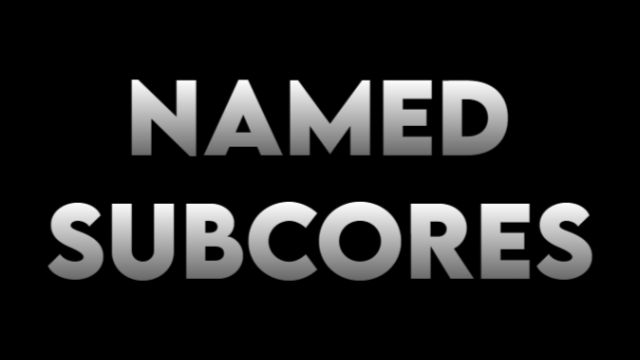
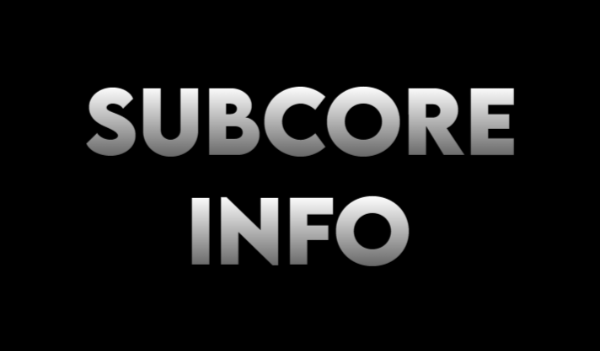
Rename to SubcoreInfo

Changed region(s): [[0.06, 0.5413, 0.93, 0.7977], [0.12, 0.1994, 0.87, 0.4558]]

diff --git a/Source/SubcoreInfo/Harmony/Harmony_Building_SubcoreScanner.cs b/Source/SubcoreInfo/Harmony/Harmony_Building_SubcoreScanner.cs
@@ -2,7 +2,7 @@
 using RimWorld;
 using Verse;
 
-namespace NamedSubcores
+namespace SubcoreInfo
 {
     /// <summary>
     /// Harmony_Building_SubcoreScanner_EjectContents patches subcore scanners to use our component during ejects.
@@ -16,7 +16,7 @@ namespace NamedSubcores
         /// <param name="__instance"></param>
         internal static void Postfix(Building_SubcoreScanner __instance)
         {
-            __instance.GetComp<SubcoreScannerComp>().Ejected = true;
+            __instance.GetComp<SubcoreScannerPatternComp>().Ejected = true;
         }
     }
 
@@ -32,7 +32,7 @@ namespace NamedSubcores
         /// <param name="__instance"></param>
         internal static void Prefix(Building_SubcoreScanner __instance)
         {
-            SubcoreScannerComp scannerComp = __instance.GetComp<SubcoreScannerComp>();
+            SubcoreScannerPatternComp scannerComp = __instance.GetComp<SubcoreScannerPatternComp>();
             scannerComp.PatternName = __instance?.Occupant?.Name ?? null;
         }
 
@@ -42,10 +42,10 @@ namespace NamedSubcores
         /// <param name="__instance"></param>
         internal static void Postfix(Building_SubcoreScanner __instance)
         {
-            SubcoreScannerComp scannerComp = __instance.GetComp<SubcoreScannerComp>();
+            SubcoreScannerPatternComp scannerComp = __instance.GetComp<SubcoreScannerPatternComp>();
             if (!scannerComp.Ejected) { return; }
 
-            SubcorePatternComp subcoreComp = TryGetSubcoreComp(__instance);
+            SubcoreInfoComp subcoreComp = TryGetSubcoreComp(__instance);
             if (subcoreComp != null)
             {
                 subcoreComp.PatternName = scannerComp.PatternName;
@@ -55,11 +55,11 @@ namespace NamedSubcores
         }
 
         /// <summary>
-        /// Try to find the subcore ejected from the scanner and return the component for it.
+        /// Try to find kekethe subcore ejected from the scanner and return the component for it.
         /// </summary>
         /// <param name="scanner"></param>
         /// <returns></returns>
-        static SubcorePatternComp TryGetSubcoreComp(Building_SubcoreScanner scanner)
+        static SubcoreInfoComp TryGetSubcoreComp(Building_SubcoreScanner scanner)
         {
             ThingDef subcoreDef = scanner.def.defName switch
             {
@@ -72,14 +72,14 @@ namespace NamedSubcores
 
             static bool validator(Thing subcore)
             {
-                SubcorePatternComp comp = subcore.TryGetComp<SubcorePatternComp>();
+                SubcoreInfoComp comp = subcore.TryGetComp<SubcoreInfoComp>();
                 if (comp == null) { return false; }
                 return comp.PatternName == null;
             }
 
             Thing subcore = GenClosest.ClosestThingReachable(scanner.InteractionCell, scanner.Map, ThingRequest.ForDef(subcoreDef), Verse.AI.PathEndMode.ClosestTouch, TraverseParms.For(TraverseMode.ByPawn), 9999, validator);
 
-            return subcore?.TryGetComp<SubcorePatternComp>() ?? null;
+            return subcore?.TryGetComp<SubcoreInfoComp>() ?? null;
         }
     }
 }

diff --git a/Source/SubcoreInfo/Harmony/Harmony_Building_MechGestator.cs b/Source/SubcoreInfo/Harmony/Harmony_Building_MechGestator.cs
@@ -3,7 +3,7 @@ using RimWorld;
 using System.Linq;
 using Verse;
 
-namespace NamedSubcores
+namespace SubcoreInfo
 {
     internal class Harmony_Building_MechGestator
     {
@@ -19,14 +19,14 @@ namespace NamedSubcores
             /// <param name="__instance"></param>
             internal static void Prefix(Building_MechGestator __instance)
             {
-                static bool hasNamedSubcoreComp(Thing thing) => (thing?.TryGetComp<SubcorePatternComp>() ?? null) != null;
+                static bool hasNamedSubcoreComp(Thing thing) => (thing?.TryGetComp<SubcoreInfoComp>() ?? null) != null;
                 Thing subcore = __instance.innerContainer.FirstOrDefault(hasNamedSubcoreComp);
                 if (subcore == null) { return; }
 
-                SubcorePatternComp subcoreComp = subcore.TryGetComp<SubcorePatternComp>();
+                SubcoreInfoComp subcoreComp = subcore.TryGetComp<SubcoreInfoComp>();
                 if (subcoreComp == null) { return; }
 
-                MechGestatorComp gestatorComp = __instance.GetComp<MechGestatorComp>();
+                MechGestatorPatternComp gestatorComp = __instance.GetComp<MechGestatorPatternComp>();
                 if (gestatorComp == null) { return; }
 
                 gestatorComp.PatternName = subcoreComp.PatternName;
@@ -38,10 +38,10 @@ namespace NamedSubcores
             /// <param name="__instance"></param>
             internal static void Postfix(Building_MechGestator __instance)
             {
-                MechGestatorComp gestatorComp = __instance.GetComp<MechGestatorComp>();
+                MechGestatorPatternComp gestatorComp = __instance.GetComp<MechGestatorPatternComp>();
                 if (gestatorComp == null) { return; }
 
-                MechPatternComp mechComp = __instance.GestatingMech.GetComp<MechPatternComp>();
+                MechInfoComp mechComp = __instance.GestatingMech.GetComp<MechInfoComp>();
                 if (mechComp == null) { return; }
 
                 mechComp.PatternName = gestatorComp.PatternName;

diff --git a/Source/SubcoreInfo/Comps/SubcoreScannerPatternComp.cs b/Source/SubcoreInfo/Comps/SubcoreScannerPatternComp.cs
@@ -1,32 +1,34 @@
 using Verse;
 
-namespace NamedSubcores
+namespace SubcoreInfo
 {
     /// <summary>
-    /// BasePatternComp implements the common features for the pattern components.
+    /// SubcoreScannerPatternComp is added to subcore scanners
+    /// allowing us to track when a subcore is ejected.
     /// </summary>
-    public class BasePatternComp : ThingComp
+    public class SubcoreScannerPatternComp : BasePatternComp
     {
         /// <summary>
-        /// PatternName tracks the name of the pawn scanned.
+        /// Ejected tracks whether a subcore has just been ejected.
         /// </summary>
-        public Name PatternName;
+        public bool Ejected = false;
 
         /// <summary>
         /// PostExposeData is used to save our component state.
         /// </summary>
         public override void PostExposeData()
         {
-            Scribe_Deep.Look(ref PatternName, "patternName");
+            Scribe_Values.Look(ref Ejected, "ejected");
             base.PostExposeData();
         }
 
         /// <summary>
         /// Reset allows the component to be reset for reuse.
         /// </summary>
-        public void Reset()
+        public new void Reset()
         {
-            PatternName = null;
+            base.Reset();
+            Ejected = false;
         }
     }
 }

diff --git a/Source/SubcoreInfo/Comps/BasePatternComp.cs b/Source/SubcoreInfo/Comps/BasePatternComp.cs
@@ -1,33 +1,32 @@
 using Verse;
 
-namespace NamedSubcores
+namespace SubcoreInfo
 {
     /// <summary>
-    /// SubcoreScannerComp is added to subcore scanners and allows us to track when a subcore is ejected.
+    /// BasePatternComp implements the common features for the pattern components.
     /// </summary>
-    public class SubcoreScannerComp : BasePatternComp
+    public class BasePatternComp : ThingComp
     {
         /// <summary>
-        /// Ejected tracks whether a subcore has just been ejected.
+        /// PatternName tracks the name of the pawn scanned.
         /// </summary>
-        public bool Ejected = false;
+        public Name PatternName;
 
         /// <summary>
         /// PostExposeData is used to save our component state.
         /// </summary>
         public override void PostExposeData()
         {
-            Scribe_Values.Look(ref Ejected, "ejected");
+            Scribe_Deep.Look(ref PatternName, "patternName");
             base.PostExposeData();
         }
 
         /// <summary>
         /// Reset allows the component to be reset for reuse.
         /// </summary>
-        public new void Reset()
+        public void Reset()
         {
-            base.Reset();
-            Ejected = false;
+            PatternName = null;
         }
     }
 }

diff --git a/Source/SubcoreInfo/Comps/SubcoreInfoComp.cs b/Source/SubcoreInfo/Comps/SubcoreInfoComp.cs
@@ -1,11 +1,12 @@
 using Verse;
 
-namespace NamedSubcores
+namespace SubcoreInfo
 {
     /// <summary>
-    /// MechPatternComp is added to subcores and is used to track the pawn scanned into the subcore.
+    /// SubcoreInfoComp is added to subcores and is used to track the pawn scanned into the subcore.
     /// </summary>
-    public class SubcorePatternComp : InspectPatternComp {
+    public class SubcoreInfoComp : BaseInfoComp
+    {
         /// <summary>
         /// AllowStackWith ensures that subcores can only be stacked with others of the same pattern.
         /// </summary>
@@ -15,7 +16,7 @@ namespace NamedSubcores
         {
             if (base.AllowStackWith(other) == false) { return false; };
 
-            SubcorePatternComp otherComp = other?.TryGetComp<SubcorePatternComp>();
+            SubcoreInfoComp otherComp = other?.TryGetComp<SubcoreInfoComp>();
             if (otherComp == null) { return false; }
 
             return PatternName == otherComp.PatternName;

diff --git a/Source/SubcoreInfo/Properties/AssemblyInfo.cs b/Source/SubcoreInfo/Properties/AssemblyInfo.cs
@@ -5,11 +5,11 @@ using System.Runtime.InteropServices;
 // General Information about an assembly is controlled through the following
 // set of attributes. Change these attribute values to modify the information
 // associated with an assembly.
-[assembly: AssemblyTitle("NamedSubcores")]
+[assembly: AssemblyTitle("SubcoreInfo")]
 [assembly: AssemblyDescription("")]
 [assembly: AssemblyConfiguration("")]
 [assembly: AssemblyCompany("")]
-[assembly: AssemblyProduct("NamedSubcores")]
+[assembly: AssemblyProduct("SubcoreInfo")]
 [assembly: AssemblyCopyright("Copyright ©  2023")]
 [assembly: AssemblyTrademark("")]
 [assembly: AssemblyCulture("")]

diff --git a/Source/SubcoreInfo/Comps/BaseInfoComp.cs b/Source/SubcoreInfo/Comps/BaseInfoComp.cs
@@ -1,13 +1,13 @@
 using Verse;
 
-namespace NamedSubcores
+namespace SubcoreInfo
 {
     /// <summary>
-    /// InspectPatternComp implements the common inspect method for pattern components.
+    /// BaseInfoComp implements the common inspect method for pattern components.
     /// </summary>
-    public class InspectPatternComp : BasePatternComp
+    public class BaseInfoComp : BasePatternComp
     {
-                /// <summary>
+        /// <summary>
         /// CompInspectStringExtra adds to the item inspection pane.
         /// </summary>
         /// <returns></returns>

diff --git a/Source/SubcoreInfo/SubcoreInfo.cs b/Source/SubcoreInfo/SubcoreInfo.cs
@@ -1,0 +1,21 @@
+using HarmonyLib;
+using Verse;
+
+namespace SubcoreInfo
+{
+    /// <summary>
+    /// SubcoreInfo static class to load up the mod and initialise everything.
+    /// </summary>
+    [StaticConstructorOnStartup]
+    public static class SubcoreInfo
+    {
+        /// <summary>
+        /// SubcoreInfo constructor to patch things using harmony.
+        /// </summary>
+        static SubcoreInfo()
+        {
+            var harmony = new Harmony("eth0net.SubcoreInfo.harmony");
+            harmony.PatchAll();
+        }
+    }
+}

diff --git a/Source/SubcoreInfo/Comps/MechGestatorPatternComp.cs b/Source/SubcoreInfo/Comps/MechGestatorPatternComp.cs
@@ -1,0 +1,8 @@
+namespace SubcoreInfo
+{
+    /// <summary>
+    /// MechGestatorPatternComp is added to mech gestators and
+    /// allows us to track the subcore pattern during gestation.
+    /// </summary>
+    public class MechGestatorPatternComp : BasePatternComp { }
+}

diff --git a/Source/SubcoreInfo/Comps/MechInfoComp.cs b/Source/SubcoreInfo/Comps/MechInfoComp.cs
@@ -1,0 +1,7 @@
+namespace SubcoreInfo
+{
+    /// <summary>
+    /// MechInfoComp is added to mechanoids and is used to track the pawn scanned into the subcore.
+    /// </summary>
+    public class MechInfoComp : BaseInfoComp { }
+}

diff --git a/README.md b/README.md
@@ -1,4 +1,4 @@
-# ![NamedSubcores](./About/Preview.png)
+# ![SubcoreInfo](./About/Preview.png)
 
 Track which unfortunate pawn your subcores came from!
 
